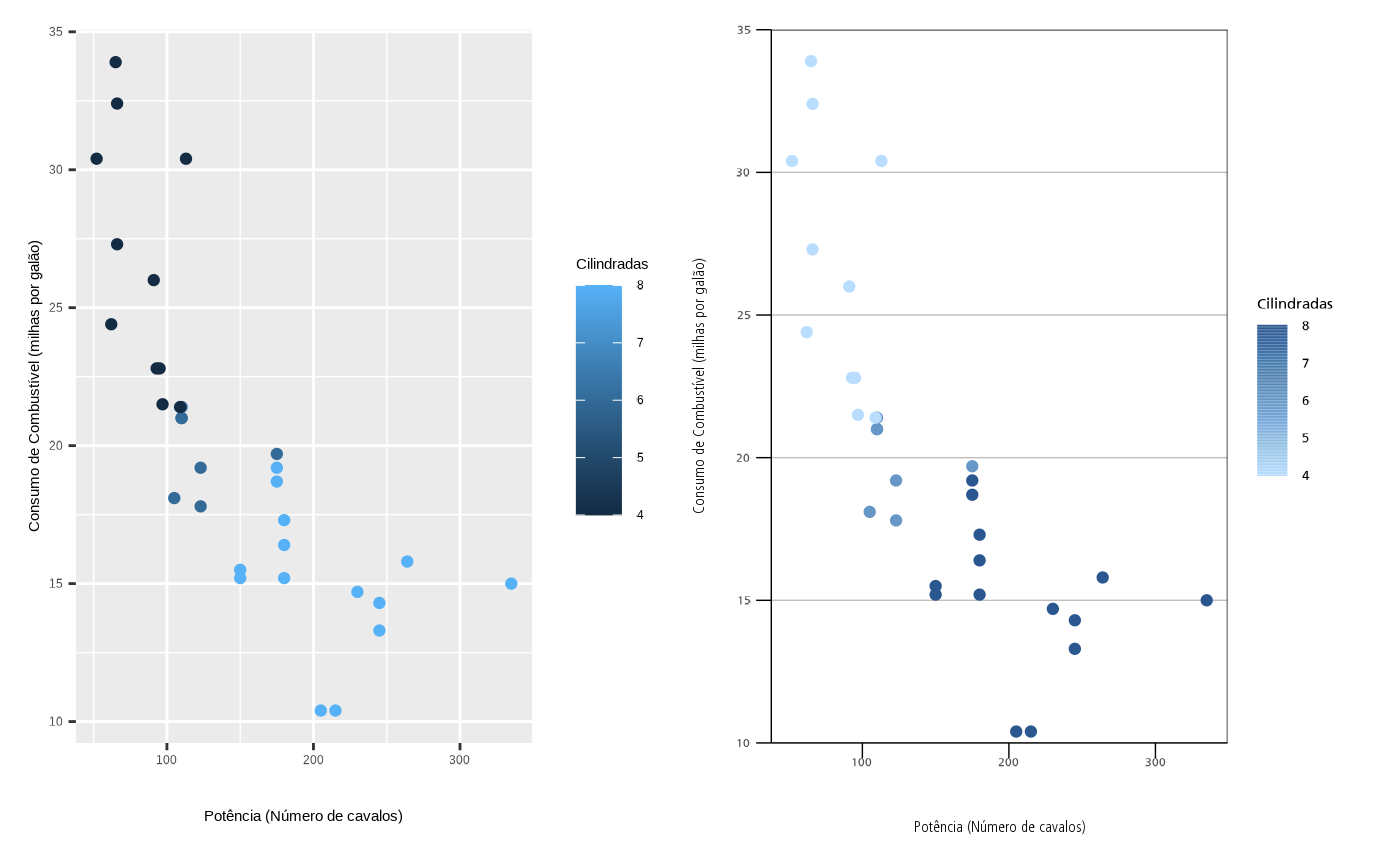
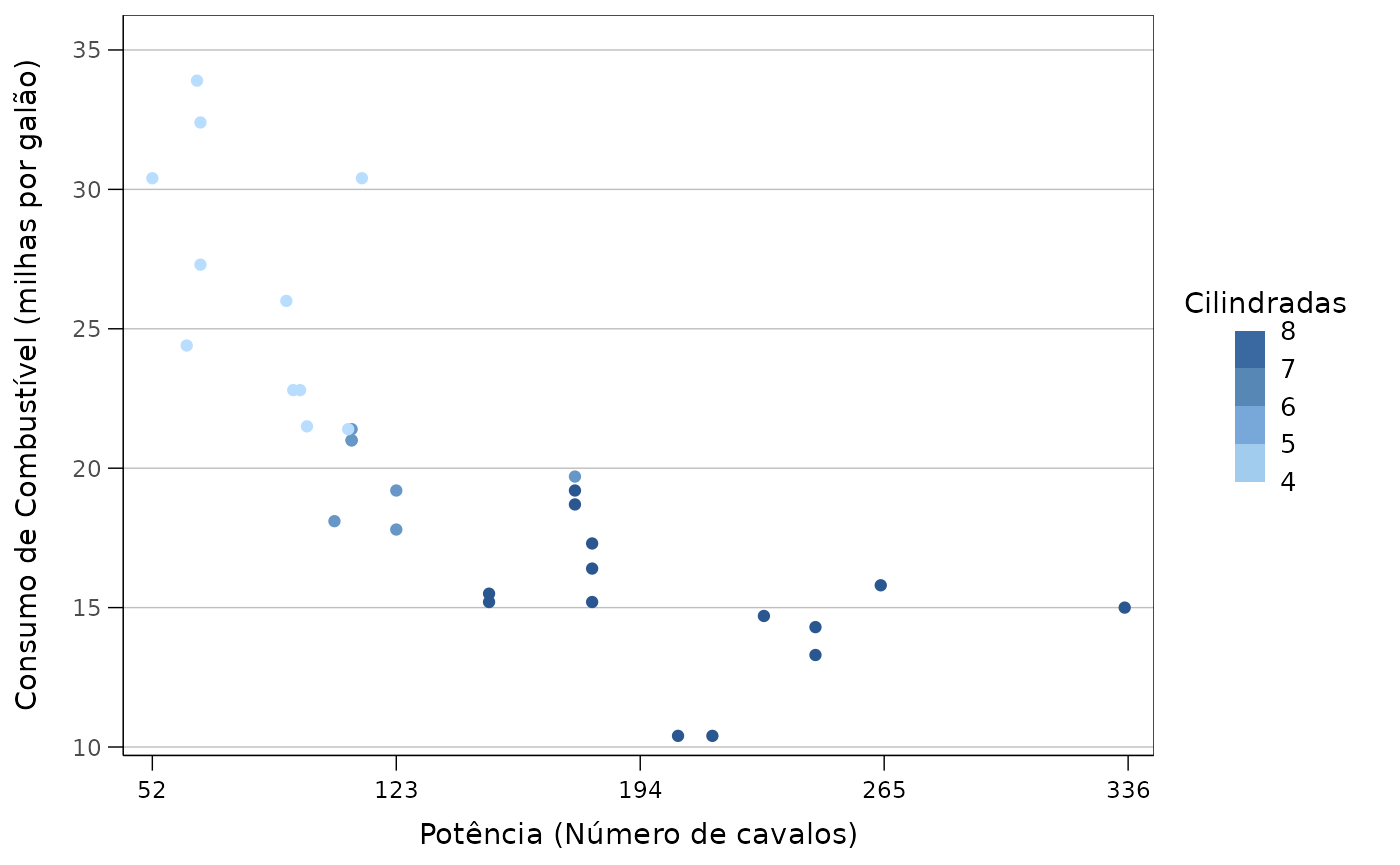
Deploying to gh-pages from @ ipeadata-lab/ipeaplot@de9034a6d612194a4cfc76c8726bdaa8988f8654 🚀

diff --git a/articles/intro_ipeaplot.html b/articles/intro_ipeaplot.html
@@ -146,6 +146,19 @@ uma apresentação alinhada aos padrões estilístico estabelecidos pelo
 instituto. Nas próximas seções, vamos explorar como usar as funções do
 <strong>ipeaplot</strong> editar as figuras seguindo essas
 diretrizes.</p>
+<div class="sourceCode" id="cb3"><pre class="downlit sourceCode r">
+<code class="sourceCode R"><span><span class="va">fig_raw</span> <span class="op">&lt;-</span> <span class="fu"><a href="https://ggplot2.tidyverse.org/reference/ggplot.html" class="external-link">ggplot</a></span><span class="op">(</span><span class="op">)</span> <span class="op">+</span></span>
+<span>              <span class="fu"><a href="https://ggplot2.tidyverse.org/reference/geom_point.html" class="external-link">geom_point</a></span><span class="op">(</span>data <span class="op">=</span> <span class="va">mtcars</span>, <span class="fu"><a href="https://ggplot2.tidyverse.org/reference/aes.html" class="external-link">aes</a></span><span class="op">(</span>x <span class="op">=</span> <span class="va">hp</span> , y <span class="op">=</span> <span class="va">mpg</span>, color <span class="op">=</span> <span class="va">cyl</span><span class="op">)</span><span class="op">)</span> <span class="op">+</span></span>
+<span>              <span class="fu"><a href="https://ggplot2.tidyverse.org/reference/labs.html" class="external-link">labs</a></span><span class="op">(</span>y<span class="op">=</span><span class="st">'Consumo de Combustível (milhas por galão)'</span>,</span>
+<span>                   x <span class="op">=</span><span class="st">'Potência (Número de cavalos)'</span>,</span>
+<span>                   color<span class="op">=</span><span class="st">'Cilindradas'</span><span class="op">)</span></span>
+<span></span>
+<span><span class="va">fig_base</span> <span class="op">&lt;-</span> <span class="va">fig_raw</span> <span class="op">+</span></span>
+<span>              <span class="fu"><a href="../reference/scale_color_ipea.html">scale_color_ipea</a></span><span class="op">(</span><span class="op">)</span> <span class="op">+</span></span>
+<span>              <span class="fu"><a href="../reference/theme_ipea.html">theme_ipea</a></span><span class="op">(</span><span class="op">)</span></span>
+<span></span>
+<span><span class="va">fig_base</span></span></code></pre></div>
+<p><img src="intro_ipeaplot_files/figure-html/unnamed-chunk-4-1.png" width="100%" style="display: block; margin: auto;"></p>
 <div class="section level3">
 <h3 id="paleta-de-cores">Paleta de cores<a class="anchor" aria-label="anchor" href="#paleta-de-cores"></a>
 </h3>
@@ -165,7 +178,13 @@ cores divergentes (<code>"Red-Blue", "Orange-Blue"</code>).</p>
 <img src="intro_ipeaplot_files/figure-html/unnamed-chunk-6-1.png" width="50%" style="display: block; margin: auto;"></p>
 <p>Para usar as paletas de cores, basta adicionar uma das funções na
 construção da sua figura com <code>ggplot2</code>:</p>
+<div class="sourceCode" id="cb4"><pre class="downlit sourceCode r">
+<code class="sourceCode R"><span><span class="co"># paleta sequencial verde</span></span>
+<span><span class="va">fig_base</span> <span class="op">+</span> <span class="fu"><a href="../reference/scale_color_ipea.html">scale_color_ipea</a></span><span class="op">(</span>palette <span class="op">=</span> <span class="st">"Green"</span><span class="op">)</span></span></code></pre></div>
 <p><img src="intro_ipeaplot_files/figure-html/unnamed-chunk-7-1.png" width="100%" style="display: block; margin: auto;"></p>
+<div class="sourceCode" id="cb5"><pre class="downlit sourceCode r">
+<code class="sourceCode R"><span><span class="co"># paleta divergente de laranja a azul</span></span>
+<span><span class="va">fig_base</span> <span class="op">+</span> <span class="fu"><a href="../reference/scale_color_ipea.html">scale_color_ipea</a></span><span class="op">(</span>palette <span class="op">=</span> <span class="st">"Orange-Blue"</span><span class="op">)</span></span></code></pre></div>
 <p><img src="intro_ipeaplot_files/figure-html/unnamed-chunk-8-1.png" width="100%" style="display: block; margin: auto;"></p>
 <p>Além de selecionar a paleta de cores, as funções
 <code><a href="../reference/scale_color_ipea.html">scale_color_ipea()</a></code> e <code><a href="../reference/scale_fill_ipea.html">scale_fill_ipea()</a></code> trazem
@@ -185,15 +204,50 @@ eixos etc.</p>
 <p>Para ilustrar essa função, vamos utilizar alguns dados do Atlas do
 Desenvolvimento Humano organizados em um projeto de parceria entre Ipea,
 FJP e PNUD). Para carregar os dados, basta rodar:</p>
-<div class="sourceCode" id="cb3"><pre class="downlit sourceCode r">
+<div class="sourceCode" id="cb6"><pre class="downlit sourceCode r">
 <code class="sourceCode R"><span><span class="va">df</span> <span class="op">&lt;-</span> <span class="fu">abjData</span><span class="fu">::</span><span class="va"><a href="https://abjur.github.io/abjData/reference/pnud_muni.html" class="external-link">pnud_muni</a></span></span></code></pre></div>
 <p>Essa base de dados traz para cada municipio uma série de indicadores
 socioeconômicos para diferentes anos. Neste exemplo abaixo, nós primeiro
 calculamos qual a proporção de domicílios que possuia coleta de esgoto
 em cada região do país a cada anos, e em seguida geramos o gráfico:</p>
+<div class="sourceCode" id="cb7"><pre class="downlit sourceCode r">
+<code class="sourceCode R"><span><span class="co"># cria variavel identificando a regiao de cada municipio</span></span>
+<span><span class="va">df</span> <span class="op">&lt;-</span> <span class="va">df</span> <span class="op">|&gt;</span> </span>
+<span>      <span class="fu"><a href="https://dplyr.tidyverse.org/reference/mutate.html" class="external-link">mutate</a></span><span class="op">(</span>regiao <span class="op">=</span> <span class="fu"><a href="https://rdrr.io/r/base/substr.html" class="external-link">substring</a></span><span class="op">(</span><span class="va">uf</span>, <span class="fl">1</span>, <span class="fl">1</span><span class="op">)</span>,</span>
+<span>             regiao <span class="op">=</span> <span class="fu"><a href="https://dplyr.tidyverse.org/reference/case_when.html" class="external-link">case_when</a></span><span class="op">(</span><span class="va">regiao</span> <span class="op">==</span> <span class="fl">1</span> <span class="op">~</span> <span class="st">'Norte'</span>,</span>
+<span>                                <span class="va">regiao</span> <span class="op">==</span> <span class="fl">2</span> <span class="op">~</span> <span class="st">'Nordeste'</span>,</span>
+<span>                                <span class="va">regiao</span> <span class="op">==</span> <span class="fl">3</span> <span class="op">~</span> <span class="st">'Sudeste'</span>,</span>
+<span>                                <span class="va">regiao</span> <span class="op">==</span> <span class="fl">4</span> <span class="op">~</span> <span class="st">'Sul'</span>,</span>
+<span>                                <span class="va">regiao</span> <span class="op">==</span> <span class="fl">5</span> <span class="op">~</span> <span class="st">'Centro Oeste'</span><span class="op">)</span><span class="op">)</span></span>
+<span></span>
+<span><span class="co"># calcula media de colega de esgoto por ano e regiao</span></span>
+<span><span class="va">df_fig1</span> <span class="op">&lt;-</span> <span class="va">df</span> <span class="op">|&gt;</span></span>
+<span>           <span class="fu"><a href="https://dplyr.tidyverse.org/reference/mutate.html" class="external-link">mutate</a></span><span class="op">(</span>regiao <span class="op">=</span> <span class="fu"><a href="https://rdrr.io/r/base/substr.html" class="external-link">substring</a></span><span class="op">(</span><span class="va">uf</span>, <span class="fl">1</span>, <span class="fl">1</span><span class="op">)</span><span class="op">)</span> <span class="op">|&gt;</span></span>
+<span>           <span class="fu"><a href="https://dplyr.tidyverse.org/reference/group_by.html" class="external-link">group_by</a></span><span class="op">(</span><span class="va">ano</span>, <span class="va">regiao</span><span class="op">)</span> <span class="op">|&gt;</span></span>
+<span>           <span class="fu"><a href="https://dplyr.tidyverse.org/reference/summarise.html" class="external-link">summarise</a></span><span class="op">(</span> t_lixo <span class="op">=</span> <span class="fu"><a href="https://rdrr.io/r/stats/weighted.mean.html" class="external-link">weighted.mean</a></span><span class="op">(</span>x<span class="op">=</span><span class="va">t_lixo</span>, w <span class="op">=</span> <span class="va">pop</span><span class="op">)</span><span class="op">)</span> <span class="op">|&gt;</span></span>
+<span>           <span class="fu"><a href="https://dplyr.tidyverse.org/reference/compute.html" class="external-link">collect</a></span><span class="op">(</span><span class="op">)</span></span>
+<span></span>
+<span><span class="co"># plot</span></span>
+<span><span class="fu"><a href="https://ggplot2.tidyverse.org/reference/ggplot.html" class="external-link">ggplot</a></span><span class="op">(</span><span class="op">)</span> <span class="op">+</span></span>
+<span>  <span class="fu"><a href="https://ggplot2.tidyverse.org/reference/geom_path.html" class="external-link">geom_line</a></span><span class="op">(</span>data <span class="op">=</span> <span class="va">df_fig1</span>, <span class="fu"><a href="https://ggplot2.tidyverse.org/reference/aes.html" class="external-link">aes</a></span><span class="op">(</span>x<span class="op">=</span><span class="va">ano</span>, y<span class="op">=</span><span class="va">t_lixo</span>, color<span class="op">=</span> <span class="va">regiao</span><span class="op">)</span><span class="op">)</span> <span class="op">+</span></span>
+<span>  <span class="fu"><a href="../reference/scale_color_ipea.html">scale_color_ipea</a></span><span class="op">(</span>palette <span class="op">=</span> <span class="st">'Orange'</span><span class="op">)</span> <span class="op">+</span></span>
+<span>  <span class="fu"><a href="https://ggplot2.tidyverse.org/reference/labs.html" class="external-link">labs</a></span><span class="op">(</span>title <span class="op">=</span> <span class="st">'Proporção da população com coleta de lixo'</span>, color<span class="op">=</span><span class="st">'Região'</span><span class="op">)</span> <span class="op">+</span></span>
+<span>  <span class="fu"><a href="https://ggplot2.tidyverse.org/reference/labs.html" class="external-link">ylab</a></span><span class="op">(</span><span class="st">'Proporção em %'</span><span class="op">)</span> <span class="op">+</span></span>
+<span>  <span class="fu"><a href="https://ggplot2.tidyverse.org/reference/labs.html" class="external-link">xlab</a></span><span class="op">(</span><span class="st">'Ano'</span><span class="op">)</span> <span class="op">+</span></span>
+<span>  <span class="fu"><a href="../reference/theme_ipea.html">theme_ipea</a></span><span class="op">(</span><span class="op">)</span></span></code></pre></div>
 <p><img src="intro_ipeaplot_files/figure-html/unnamed-chunk-10-1.png" width="100%" style="display: block; margin: auto;"></p>
 <p>Os mesmos dados também poderiam ser visualizados com um gráfico de
 colunas:</p>
+<div class="sourceCode" id="cb8"><pre class="downlit sourceCode r">
+<code class="sourceCode R"><span><span class="fu"><a href="https://ggplot2.tidyverse.org/reference/ggplot.html" class="external-link">ggplot</a></span><span class="op">(</span><span class="op">)</span> <span class="op">+</span> </span>
+<span>  <span class="fu"><a href="https://ggplot2.tidyverse.org/reference/geom_bar.html" class="external-link">geom_col</a></span><span class="op">(</span>data <span class="op">=</span> <span class="va">df_fig1</span>, <span class="fu"><a href="https://ggplot2.tidyverse.org/reference/aes.html" class="external-link">aes</a></span><span class="op">(</span>x<span class="op">=</span><span class="va">ano</span>, y<span class="op">=</span><span class="va">t_lixo</span>, fill<span class="op">=</span> <span class="fu"><a href="https://rdrr.io/r/base/factor.html" class="external-link">factor</a></span><span class="op">(</span><span class="va">ano</span><span class="op">)</span><span class="op">)</span><span class="op">)</span> <span class="op">+</span></span>
+<span>  <span class="fu"><a href="../reference/scale_fill_ipea.html">scale_fill_ipea</a></span><span class="op">(</span>palette <span class="op">=</span> <span class="st">'Green'</span><span class="op">)</span> <span class="op">+</span></span>
+<span>  <span class="fu"><a href="https://ggplot2.tidyverse.org/reference/labs.html" class="external-link">labs</a></span><span class="op">(</span>title <span class="op">=</span> <span class="st">'Proporção da população com coleta de lixo'</span>, fill<span class="op">=</span><span class="st">'Ano'</span><span class="op">)</span> <span class="op">+</span></span>
+<span>  <span class="fu"><a href="https://ggplot2.tidyverse.org/reference/labs.html" class="external-link">ylab</a></span><span class="op">(</span><span class="st">'Proporção em %'</span><span class="op">)</span> <span class="op">+</span></span>
+<span>  <span class="fu"><a href="https://ggplot2.tidyverse.org/reference/labs.html" class="external-link">xlab</a></span><span class="op">(</span><span class="st">'Ano'</span><span class="op">)</span> <span class="op">+</span></span>
+<span>  <span class="fu"><a href="https://ggplot2.tidyverse.org/reference/facet_wrap.html" class="external-link">facet_wrap</a></span><span class="op">(</span><span class="va">.</span> <span class="op">~</span> <span class="va">regiao</span><span class="op">)</span> <span class="op">+</span></span>
+<span>  <span class="fu"><a href="../reference/theme_ipea.html">theme_ipea</a></span><span class="op">(</span>x_breaks <span class="op">=</span> <span class="fl">3</span><span class="op">)</span></span></code></pre></div>
+<p><img src="intro_ipeaplot_files/figure-html/unnamed-chunk-11-1.png" width="100%" style="display: block; margin: auto;"></p>
 <div class="section level4">
 <h4 id="mapas">Mapas<a class="anchor" aria-label="anchor" href="#mapas"></a>
 </h4>
@@ -203,14 +257,14 @@ mostra a média de anos de estudo dos municípios do Brasil.</p>
 <p>O primeiro passo, é baixar a malha espacial de municípios. Isso pode
 ser feito com o pacote <a href="https://ipeagit.github.io/geobr/" class="external-link">geobr</a>, desenvolvido pelo
 Ipea. Para baixar esses dados, basta rodar:</p>
-<div class="sourceCode" id="cb4"><pre class="downlit sourceCode r">
+<div class="sourceCode" id="cb9"><pre class="downlit sourceCode r">
 <code class="sourceCode R"><span><span class="co"># Load municipality and state spatial data</span></span>
 <span><span class="va">mun</span> <span class="op">&lt;-</span> <span class="fu">geobr</span><span class="fu">::</span><span class="fu"><a href="https://ipeagit.github.io/geobr/reference/read_municipality.html" class="external-link">read_municipality</a></span><span class="op">(</span>year <span class="op">=</span> <span class="fl">2010</span><span class="op">)</span></span>
 <span><span class="va">uf</span>  <span class="op">&lt;-</span> <span class="fu">geobr</span><span class="fu">::</span><span class="fu"><a href="https://ipeagit.github.io/geobr/reference/read_state.html" class="external-link">read_state</a></span><span class="op">(</span>year <span class="op">=</span> <span class="fl">2010</span><span class="op">)</span></span></code></pre></div>
 <p>Agora nós precisamos fazer um <em>merge</em> dos dados espaciais e
 dos dados com as estimativas de anos de estudo. A variável com os
 códigos do municípios é a nossa chave para unir as duas bases.</p>
-<div class="sourceCode" id="cb5"><pre class="downlit sourceCode r">
+<div class="sourceCode" id="cb10"><pre class="downlit sourceCode r">
 <code class="sourceCode R"><span><span class="co"># Load municipality and state spatial data</span></span>
 <span><span class="va">mun</span> <span class="op">=</span> <span class="fu"><a href="https://ipeagit.github.io/geobr/reference/read_municipality.html" class="external-link">read_municipality</a></span><span class="op">(</span><span class="op">)</span></span>
 <span><span class="va">uf</span>  <span class="op">=</span> <span class="fu"><a href="https://ipeagit.github.io/geobr/reference/read_state.html" class="external-link">read_state</a></span><span class="op">(</span><span class="op">)</span></span>
@@ -223,6 +277,15 @@ códigos do municípios é a nossa chave para unir as duas bases.</p>
 <span><span class="co"># Perform a left join between the 'mun' and 'pnud' data frames</span></span>
 <span><span class="va">df3</span> <span class="op">&lt;-</span> <span class="fu">dplyr</span><span class="fu">::</span><span class="fu"><a href="https://dplyr.tidyverse.org/reference/mutate-joins.html" class="external-link">left_join</a></span><span class="op">(</span><span class="va">mun</span>, <span class="va">df_escola</span>, by <span class="op">=</span> <span class="st">'code_muni'</span><span class="op">)</span></span></code></pre></div>
 <p>Agora basta criar o mapa:</p>
+<div class="sourceCode" id="cb11"><pre class="downlit sourceCode r">
+<code class="sourceCode R"><span><span class="fu"><a href="https://ggplot2.tidyverse.org/reference/ggplot.html" class="external-link">ggplot</a></span><span class="op">(</span><span class="op">)</span> <span class="op">+</span></span>
+<span>  <span class="fu"><a href="https://ggplot2.tidyverse.org/reference/ggsf.html" class="external-link">geom_sf</a></span><span class="op">(</span>data <span class="op">=</span> <span class="va">df3</span>, <span class="fu"><a href="https://ggplot2.tidyverse.org/reference/aes.html" class="external-link">aes</a></span><span class="op">(</span>fill <span class="op">=</span> <span class="va">e_anosestudo</span><span class="op">)</span>, color <span class="op">=</span> <span class="cn">NA</span><span class="op">)</span> <span class="op">+</span></span>
+<span>  <span class="fu"><a href="https://ggplot2.tidyverse.org/reference/ggsf.html" class="external-link">geom_sf</a></span><span class="op">(</span>data <span class="op">=</span> <span class="va">uf</span>, color <span class="op">=</span> <span class="st">"black"</span>, fill <span class="op">=</span> <span class="cn">NA</span><span class="op">)</span> <span class="op">+</span></span>
+<span>  <span class="fu"><a href="https://ggplot2.tidyverse.org/reference/labs.html" class="external-link">ggtitle</a></span><span class="op">(</span><span class="st">"Média de anos de estudo"</span><span class="op">)</span> <span class="op">+</span></span>
+<span>  <span class="fu"><a href="../reference/scale_fill_ipea.html">scale_fill_ipea</a></span><span class="op">(</span>palette <span class="op">=</span> <span class="st">'Orange-Blue'</span>,</span>
+<span>                  name<span class="op">=</span><span class="st">'Anos de\nestudo'</span><span class="op">)</span> <span class="op">+</span></span>
+<span>  <span class="fu"><a href="../reference/theme_ipea.html">theme_ipea</a></span><span class="op">(</span>axis_lines <span class="op">=</span> <span class="st">'none'</span>, include_ticks <span class="op">=</span> <span class="cn">F</span>, axis_values <span class="op">=</span> <span class="cn">F</span><span class="op">)</span></span></code></pre></div>
+<p><img src="intro_ipeaplot_files/figure-html/unnamed-chunk-14-1.png" width="100%" style="display: block; margin: auto;"></p>
 </div>
 </div>
 <div class="section level3">
@@ -235,7 +298,7 @@ formato de imagem vetorial de alta resolução.</p>
 <p>Basta passar o objeto ggplot da figura que deseja salvar, o nome do
 arquivo <code>file.name</code> e as dimensões da figura
 <code>width</code> e <code>height</code> em centímetros:</p>
-<div class="sourceCode" id="cb6"><pre class="downlit sourceCode r">
+<div class="sourceCode" id="cb12"><pre class="downlit sourceCode r">
 <code class="sourceCode R"><span><span class="fu"><a href="../reference/save_eps.html">save_eps</a></span><span class="op">(</span><span class="va">fig2</span>,</span>
 <span>         file.name <span class="op">=</span> <span class="st">"figura_2.eps"</span><span class="op">)</span></span>
 <span><span class="fu"><a href="../reference/save_pdf.html">save_pdf</a></span><span class="op">(</span><span class="va">fig2</span>,</span>
